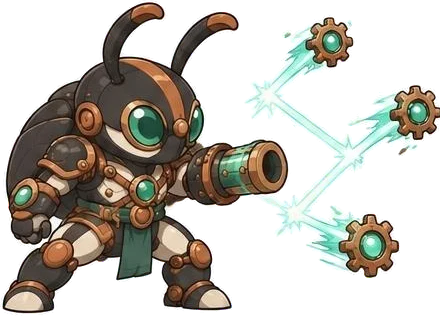
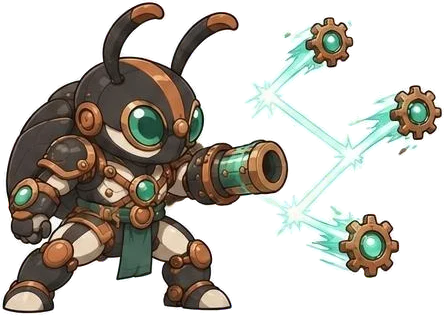
Realm: Tink's gears no longer clipped (shot sprite and volley frame)
Claude-Session: https://claude.ai/code/session_01V1aEsn5B6Gnr4Ug8DBZ5Wk

diff --git a/realm-images.js b/realm-images.js
@@ -13,7 +13,7 @@ const RL_ART={
   // Tink (clockwork beetle, chibi). Frames per form are [Gear-Shot, Ricochet Volley, Cogblast].
   bug:{zoom:.4,eyeY:95,f:[{src:'art/bug-1.webp',ax:208,ay:550,h:545,w:472,ih:551,ht:2,cx:290,fy:195},{src:'art/bug-2.webp',ax:203,ay:553,h:545,w:479,ih:552,ht:3,cx:290,fy:195},{src:'art/bug-3.webp',ax:224,ay:601,h:545,w:548,ih:600,ht:2,cx:320,fy:245}],pose:'skill',
         c:[[{src:'art/bug-1c1.webp',ax:101,ay:336,h:304,w:397,ih:337,ht:2},{src:'art/bug-1c2.webp',ax:104,ay:309,h:304,w:411,ih:309,ht:2},{src:'art/bug-1c3.webp',ax:103,ay:300,h:304,w:435,ih:302,ht:3}],
-           [{src:'art/bug-2c1.webp',ax:108,ay:338,h:304,w:429,ih:338,ht:3},{src:'art/bug-2c2.webp',ax:111,ay:315,h:304,w:440,ih:316,ht:3},{src:'art/bug-2c3.webp',ax:101,ay:300,h:304,w:460,ih:301,ht:1}],
+           [{src:'art/bug-2c1.webp',ax:108,ay:338,h:304,w:429,ih:338,ht:3},{src:'art/bug-2c2.webp',ax:112,ay:315,h:304,w:444,ih:316,ht:3},{src:'art/bug-2c3.webp',ax:101,ay:300,h:304,w:460,ih:301,ht:1}],
            [{src:'art/bug-3c1.webp',ax:123,ay:374,h:304,w:484,ih:375,ht:3},{src:'art/bug-3c2.webp',ax:168,ay:343,h:304,w:545,ih:343,ht:7},{src:'art/bug-3c3.webp',ax:116,ay:364,h:304,w:541,ih:422,ht:47}]],
         spell:[{vp:['#ffffff','#d6fff2','#5fe0c0','#8a4a1e'],hand:[170,150],bySkill:[{shot:'art/fx-bug-gear1.webp'},{shot:'art/fx-bug-gear1.webp'},{burst:'art/fx-bug-blast1.webp',aoe:'sweep'}]},
                {vp:['#ffffff','#d6fff2','#5fe0c0','#8a4a1e'],hand:[170,150],bySkill:[{shot:'art/fx-bug-gear2.webp'},{shot:'art/fx-bug-gear2.webp'},{burst:'art/fx-bug-blast2.webp',aoe:'sweep'}]},
